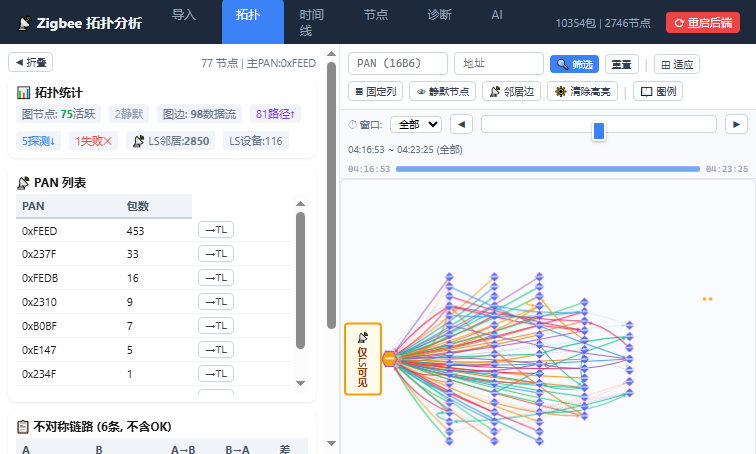
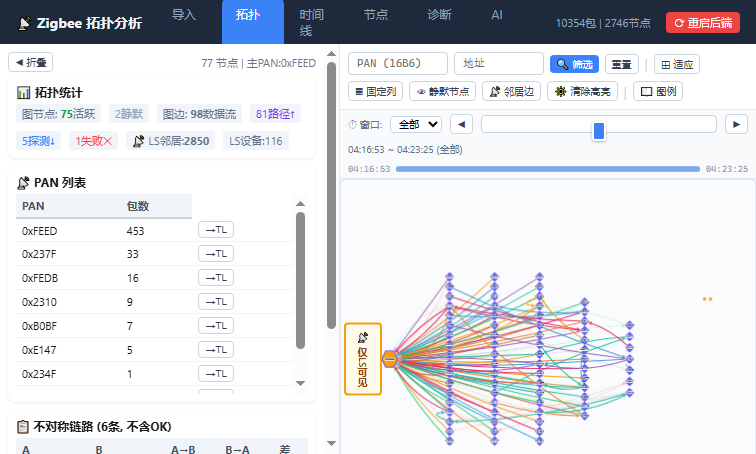
style(U13-B3): 密集 label 深色字+白描边 (用户反馈样式丑)
白字在亮色节点 (蓝/绿/橙) 对比差 → 深字 #0f172a + 白色描边 1.5px + bold,
节点微调 (router 28/终端 22/协调器 54, 字号 8px/协调器 10px)。v=20260825k

Changed region(s): [[0.4868, 0.5859, 0.7302, 0.9868], [0.7606, 0.6476, 0.8519, 0.9251]]

diff --git a/frontend/js/topo.js b/frontend/js/topo.js
@@ -344,13 +344,14 @@ reg('topo', function(){
         {selector:'node.router', style:{'background-color':'#3b82f6','shape':'diamond','width':32,'height':32}},
         {selector:'node.end_device', style:{'background-color':'#16a34a','shape':'ellipse','width':22,'height':22}},
         {selector:'node.unknown', style:{'background-color':'#94a3b8','shape':'triangle','width':22,'height':22}},
-        // U13-B2 (2026-08-25): 密集模式 — label 移入节点内部 (白字居中, 不依赖列间距)
+        // U13-B2 (2026-08-25): 密集模式 — label 移入节点内部 (不依赖列间距)
         // + 节点缩小 (曾双行/单行 label 在节点下方, 间距 34px 只比节点 32px 多 2px → 文字必被压)
-        {selector:'node.dense', style:{'font-size':'7.5px','color':'#fff','text-valign':'center','text-halign':'center','text-margin-y':0,'font-weight':'normal'}},
-        {selector:'node.dense.router', style:{'width':26,'height':26}},
-        {selector:'node.dense.end_device', style:{'width':20,'height':20}},
-        {selector:'node.dense.unknown', style:{'width':20,'height':20}},
-        {selector:'node.dense.coordinator', style:{'width':52,'height':52,'font-size':'9px','font-weight':'bold'}},
+        // B3 (用户反馈样式丑): 深色字 + 白色描边 — 白字在亮色节点 (蓝/绿/橙) 对比差
+        {selector:'node.dense', style:{'font-size':'8px','color':'#0f172a','text-outline-color':'#fff','text-outline-width':1.5,'text-valign':'center','text-halign':'center','text-margin-y':0,'font-weight':'bold'}},
+        {selector:'node.dense.router', style:{'width':28,'height':28}},
+        {selector:'node.dense.end_device', style:{'width':22,'height':22}},
+        {selector:'node.dense.unknown', style:{'width':22,'height':22}},
+        {selector:'node.dense.coordinator', style:{'width':54,'height':54,'font-size':'10px'}},
         // U14-3: 行为状态样式 — 重连橙虚线边框 / 休眠灰半透明 / 离线暗红边框
         // (角标 canvas 难实现, 用粗红边框 + tooltip 状态文字表达)
         {selector:'node.rejoining', style:{'border-color':'#f59e0b','border-style':'dashed','border-width':3}},

diff --git a/frontend/js/app.js b/frontend/js/app.js
@@ -8,7 +8,7 @@ window.S = S; window.A = A; window.sb = sb; window.fmtTs = fmtTs;
 window.sr = sr; window.setProg = setProg; window.doPI = doPI; window.doI = doI;
 
 // ── 页面模块静态导入 (确保所有 reg() 在 rt() 前完成) ──
-import './topo.js?v=20260825j';  // 缓存破坏: 时区修复 (UTC→本地), 改版递增
+import './topo.js?v=20260825k';  // 缓存破坏: 时区修复 (UTC→本地), 改版递增
 import './import.js?v=20260813k';  // 缓存破坏: 大包阈值 30MB→1MB, 改版递增
 import './timeline.js?v=20260824a';  // 缓存破坏: 详情 ZCL 属性展示, 改版递增
 import './nodes.js?v=20260824a';  // 缓存破坏: 时区修复 + U9 重构, 改版递增

diff --git a/frontend/index.html b/frontend/index.html
@@ -27,7 +27,7 @@ function rt(){var h=location.hash.slice(1)||'import';
   document.getElementById('mc').innerHTML='';if(R[h])R[h]();}
 window.addEventListener('hashchange',rt);
 </script>
-<script type="module" src="js/app.js?v=20260825j"></script>
+<script type="module" src="js/app.js?v=20260825k"></script>
 <script>
 reg('ai',function(){document.getElementById('mc').innerHTML='<div class="card"><h3>🤖 AI 分析</h3><p class="hint">后续版本实现</p></div>'});
 document.querySelectorAll('.nt a').forEach(function(t){t.addEventListener('click',function(e){e.preventDefault();location.hash=this.dataset.r})});
